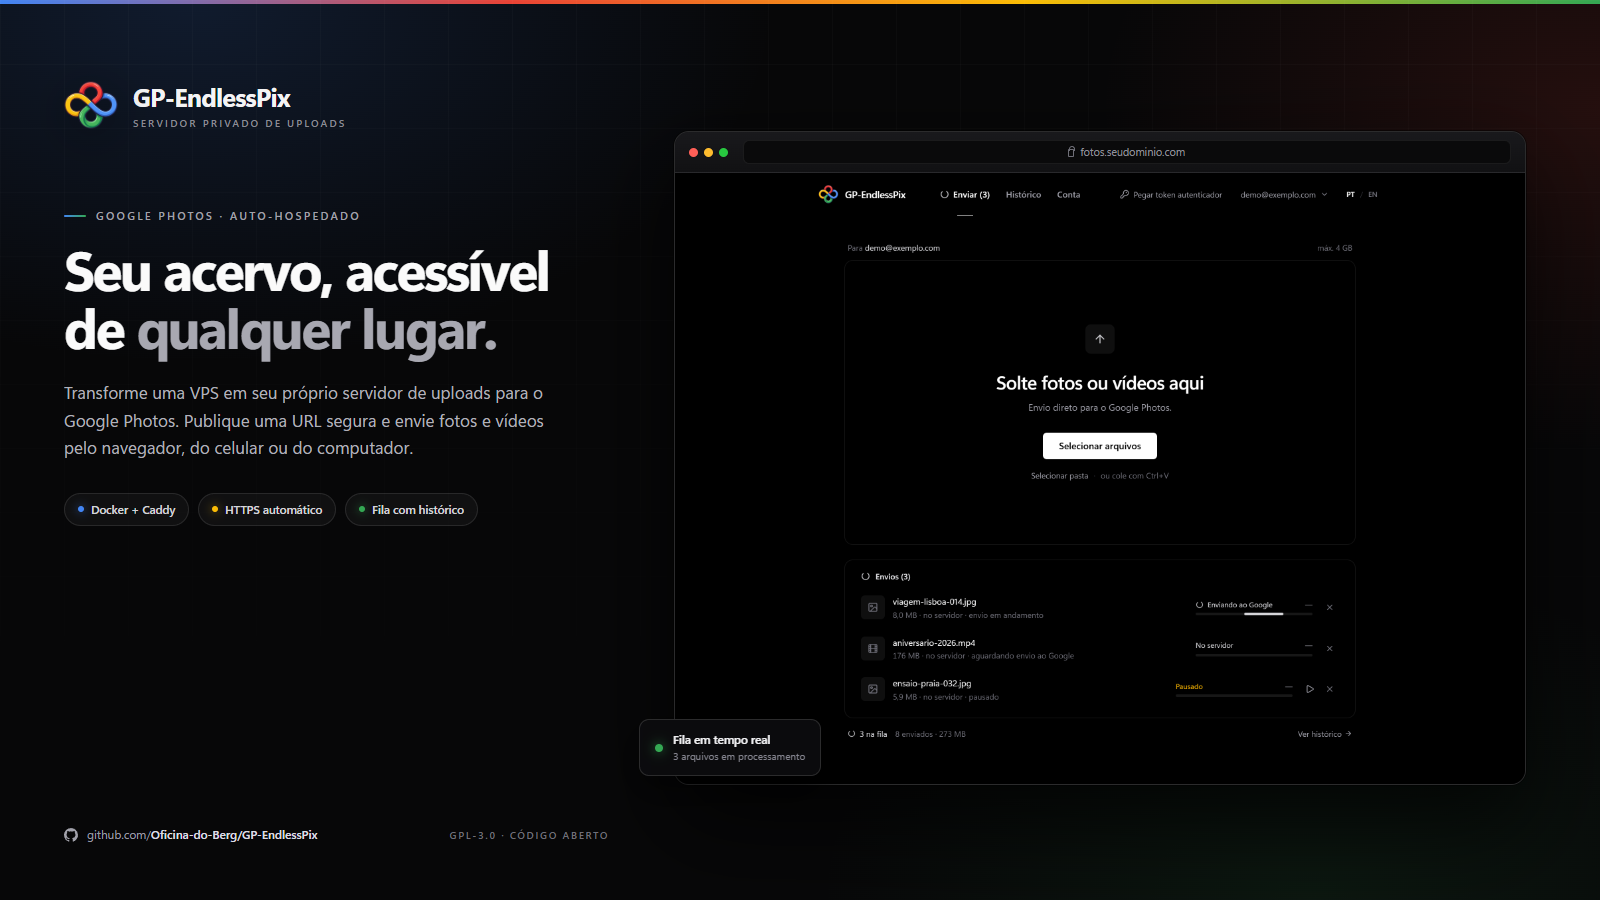
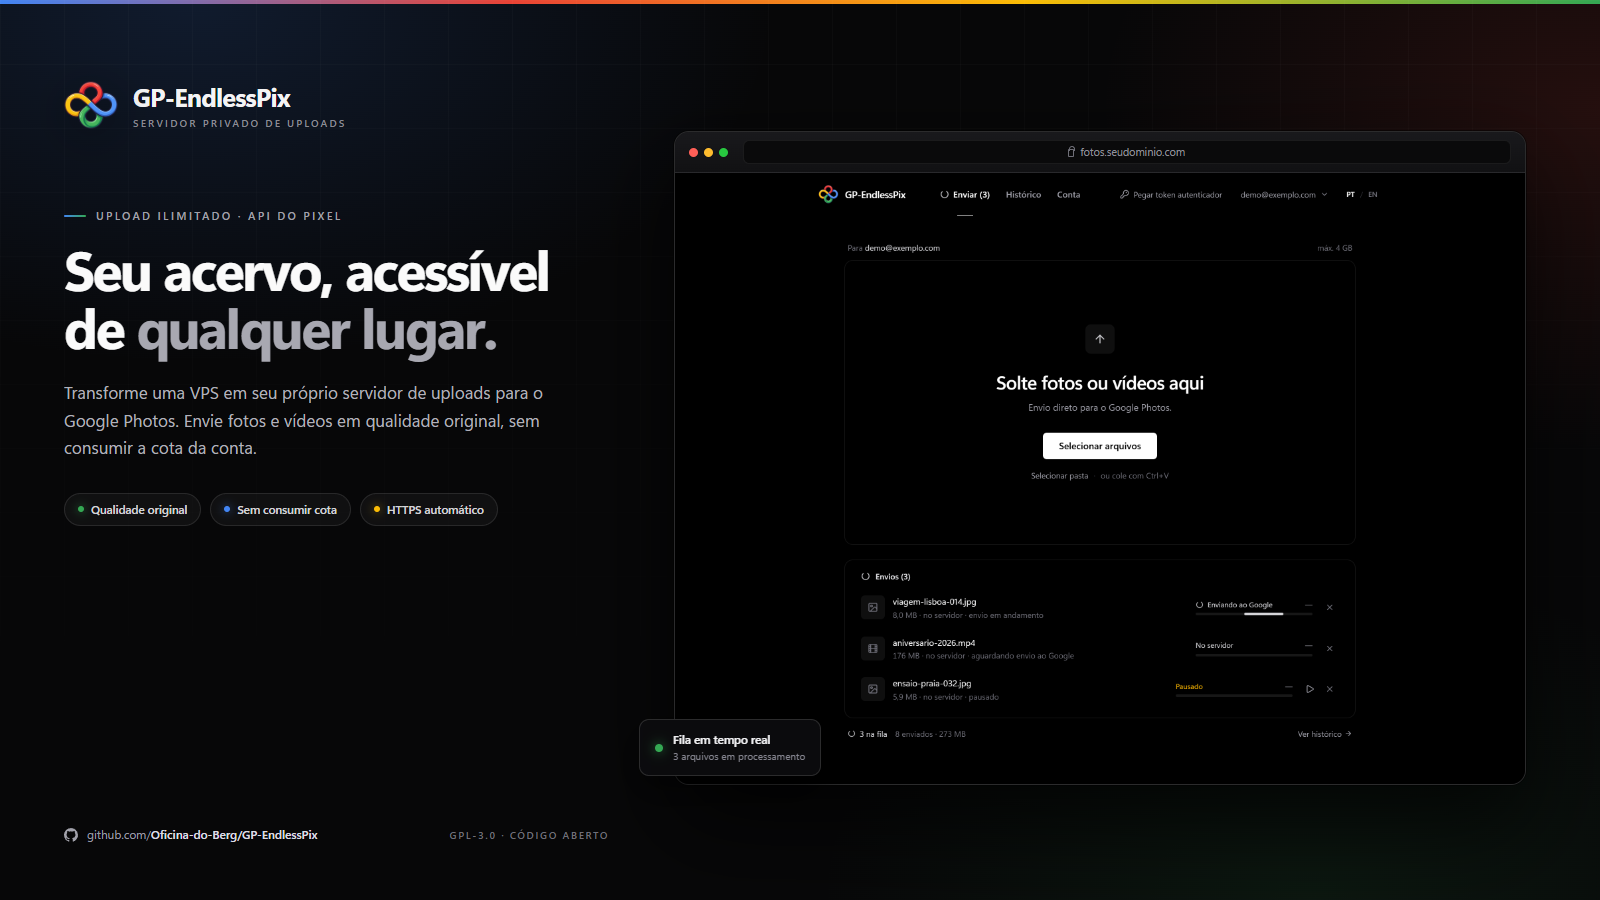
docs: destaca upload ilimitado via API do Pixel na abertura
Deixa o upload ilimitado explicito no inicio do README e na capa, com qualidade original e sem consumo de cota, mantendo o aviso sobre a integracao nao oficial.

Changed region(s): [[0.0312, 0.4356, 0.3438, 0.5289], [0.0625, 0.56, 0.3125, 0.5911], [0.0625, 0.2178, 0.2188, 0.2489]]

diff --git a/README.md b/README.md
@@ -1,10 +1,10 @@
 # GP-EndlessPix
 
-**Um servidor privado de uploads para o Google Photos.**
+**Upload ilimitado para o Google Photos, no seu próprio servidor.**
 
 Instale em uma VPS, publique uma URL e envie fotos e vídeos de qualquer
-dispositivo. O navegador só precisa de internet; o upload ao Google é feito pelo
-seu servidor.
+dispositivo. O app usa a API do Pixel para enviar em qualidade original sem
+consumir a cota da conta.
 
 <p align="center">
   <img src="docs/assets/cover.png" alt="GP-EndlessPix: interface web para envio de fotos e vídeos ao Google Photos" width="100%">
@@ -25,10 +25,12 @@ seu servidor.
   <img src="https://img.shields.io/badge/HTTPS-Caddy-1f9d55" alt="HTTPS com Caddy">
 </p>
 
-> **Aviso:** o gotohp emula um aparelho Pixel para usar o backup "ilimitado" do
-> Google Photos. Isso contraria os termos do Google e pode fazer a conta ser
-> bloqueada. Teste primeiro com uma conta secundária. O projeto não é afiliado
-> ao Google.
+> **Upload ilimitado via API do Pixel.** O GP-EndlessPix usa o `gotohp-cli`
+> para se autenticar como um dispositivo Pixel e enviar arquivos em qualidade
+> original, sem descontar do armazenamento do Google Photos. É uma integração
+> não oficial: pode contrariar os termos do Google e resultar em bloqueio da
+> conta. Teste primeiro com uma conta secundária. O projeto não é afiliado ao
+> Google.
 
 ---
 
@@ -48,6 +50,20 @@ banco e a própria conta Google.
 
 O caminho recomendado de hospedagem é uma **VPS Linux comum**. O guia também
 inclui uma seção opcional para sandboxes Instabox, útil apenas para testes.
+
+---
+
+## Upload ilimitado com a API do Pixel
+
+O GP-EndlessPix não depende de Google One nem de espaço extra na conta. O
+`gotohp-cli` se apresenta ao Google como um **dispositivo Pixel XL** e envia os
+arquivos em **qualidade original**, sem descontar da cota do Google Photos.
+
+O limite é apenas por arquivo, definido em `MAX_UPLOAD_MB` (4 GB por padrão).
+Não há limite de quantidade nem cobrança por upload.
+
+Como é uma integração não oficial, o comportamento pode mudar sem aviso e o uso
+está sujeito aos termos do Google. Teste primeiro com uma conta secundária.
 
 ---
 
@@ -95,8 +111,8 @@ GP-EndlessPix (8000, interno)
                 └─ o temporário é apagado após o sucesso
 ```
 
-- O navegador é só a interface. Quem envia ao Google é o `gotohp` rodando no
-  servidor.
+- O navegador é só a interface. Quem envia ao Google é o `gotohp-cli`, que se
+  autentica como um Pixel XL e não consome a cota da conta.
 - Um worker processa a fila, um arquivo por vez, com até 3 tentativas.
 - Se o arquivo já existir no Google Photos, o gotohp marca como "skipped" e o
   app trata como sucesso.
@@ -130,6 +146,7 @@ A interface tem três áreas:
 
 | Recurso | Detalhe |
 |---|---|
+| Upload ilimitado | API do Pixel, qualidade original e sem consumo da cota |
 | URL própria | Acesso por domínio e HTTPS automático via Caddy |
 | Upload remoto | Funciona de qualquer navegador, sem instalar cliente |
 | Fila resiliente | Pausa, cancelamento, retry e recuperação após reinício |
@@ -200,7 +217,8 @@ Cloudflare, ARM e a seção opcional do Instabox, está em
 - O backup do volume contém o token: guarde-o como um segredo.
 - Uma instalação atende **um usuário e uma conta Google por vez**.
 - O app não apaga nada do Google Photos.
-- O uso do gotohp pode violar os termos do Google e resultar em bloqueio.
+- O upload ilimitado usa uma integração não oficial com a API do Pixel; isso
+  pode violar os termos do Google e resultar em bloqueio.
 
 Leia o [guia de segurança](docs/SEGURANCA.md) antes de colocar dados reais em
 produção.

diff --git a/docs/FAQ.md b/docs/FAQ.md
@@ -4,8 +4,19 @@
 <summary><strong>O que é o GP-EndlessPix?</strong></summary>
 
 É uma aplicação web que você instala na sua própria VPS para enviar fotos e
-vídeos ao Google Photos pelo navegador. O upload é processado pelo servidor,
-usando o `gotohp-cli`, e o histórico fica no seu banco local.
+vídeos ao Google Photos pelo navegador, com upload ilimitado via API do Pixel.
+O upload é processado pelo servidor, usando o `gotohp-cli`, e o histórico fica
+no seu banco local.
+</details>
+
+<details>
+<summary><strong>O upload é realmente ilimitado?</strong></summary>
+
+Na prática, sim. O GP-EndlessPix usa o `gotohp-cli`, que se autentica como um
+dispositivo Pixel e envia os arquivos em qualidade original sem descontar da
+cota do Google Photos. O limite é apenas por arquivo, definido em
+`MAX_UPLOAD_MB` (4 GB por padrão). Como é uma integração não oficial, o
+comportamento pode mudar e o uso pode resultar em bloqueio da conta.
 </details>
 
 <details>
@@ -53,8 +64,9 @@ fazer outra instalação.
 <summary><strong>Posso usar minha conta principal?</strong></summary>
 
 Você pode, mas o recomendado é testar primeiro com uma conta secundária. O
-gotohp emula um aparelho Pixel para usar o backup "ilimitado"; isso contraria os
-termos do Google e pode resultar em bloqueio da conta. Use por sua conta e risco.
+upload ilimitado depende de uma integração não oficial com a API do Pixel; isso
+contraria os termos do Google e pode resultar em bloqueio da conta. Use por sua
+conta e risco.
 </details>
 
 <details>

diff --git a/docs/ARQUITETURA.md b/docs/ARQUITETURA.md
@@ -2,6 +2,8 @@
 
 O GP-EndlessPix é uma aplicação web auto-hospedada que recebe arquivos pelo
 navegador e os envia ao Google Photos usando o `gotohp-cli` rodando no servidor.
+O upload é ilimitado: o `gotohp-cli` se autentica como um dispositivo Pixel XL e
+não desconta os arquivos da cota da conta.
 
 ---
 
@@ -31,6 +33,11 @@ O navegador não fala diretamente com o Google. Ele envia o arquivo para a sua
 VPS; o worker do servidor faz o upload para a conta conectada. Depois que o
 arquivo chega ao servidor, o envio continua mesmo se a aba do navegador for
 fechada.
+
+O `gotohp-cli` usa a API do Pixel, uma integração não oficial que se apresenta
+ao Google como um Pixel XL. Os arquivos são enviados em qualidade original e
+não consomem a cota do Google Photos. Por ser uma integração não oficial, o
+comportamento pode mudar sem aviso e o uso está sujeito aos termos do Google.
 
 ---
 
@@ -150,6 +157,8 @@ O login é `POST /login` com o campo `password`.
 
 ## Decisões de projeto
 
+- **API do Pixel:** o gotohp se identifica como Pixel XL para enviar em
+  qualidade original sem consumir cota; é uma integração não oficial.
 - **Um worker:** evita uploads duplicados e disputa pelo mesmo SQLite.
 - **SQLite:** simples de operar, backup e restaurar em uma VPS pequena.
 - **Build da UI versionado:** a VPS não precisa de Node.js para rodar o app.

diff --git a/docs/SEGURANCA.md b/docs/SEGURANCA.md
@@ -94,6 +94,9 @@ proteja o arquivo como protegeria sua senha.
   proteja o acesso ao servidor e aos backups.
 - **Sem auditoria avançada.** O histórico registra os uploads, mas não é um
   sistema de gestão de identidade.
+- **Upload ilimitado não oficial.** O app usa a API do Pixel por meio do
+  `gotohp-cli`; o comportamento pode mudar sem aviso e não há garantia do
+  serviço por parte do Google.
 
 ---
 
@@ -105,5 +108,6 @@ proteja o arquivo como protegeria sua senha.
 4. Revise os backups e descarte os que não forem confiáveis.
 5. Verifique a conta Google e os dispositivos conectados.
 
-O uso do gotohp pode contrariar os termos do Google e resultar em bloqueio da
-conta. Use por sua conta e risco.
+O upload ilimitado depende de uma integração não oficial com a API do Pixel e
+pode contrariar os termos do Google, resultando em bloqueio da conta. Use por
+sua conta e risco.

diff --git a/docs/INSTALACAO.md b/docs/INSTALACAO.md
@@ -1,8 +1,8 @@
 # Instalação em VPS
 
 Guia de produção do **GP-EndlessPix** em uma VPS Linux com Docker. Ao final, o
-app estará disponível em uma URL HTTPS própria, pronto para receber uploads de
-qualquer dispositivo.
+app estará disponível em uma URL HTTPS própria, com upload ilimitado via API do
+Pixel, pronto para receber arquivos de qualquer dispositivo.
 
 ```text
 Internet -> Caddy (443) -> app FastAPI (8000, interno) -> gotohp-cli -> Google Photos
